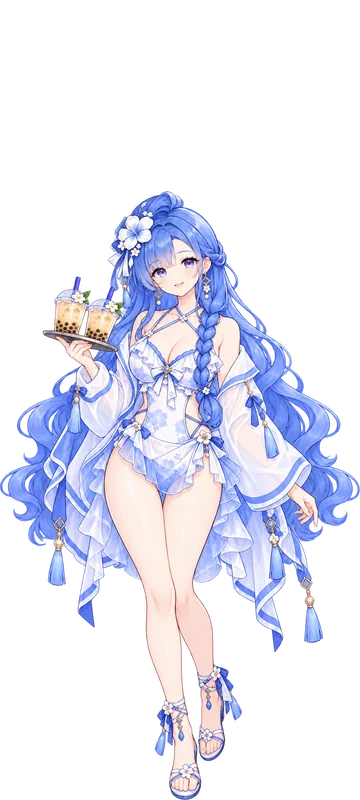
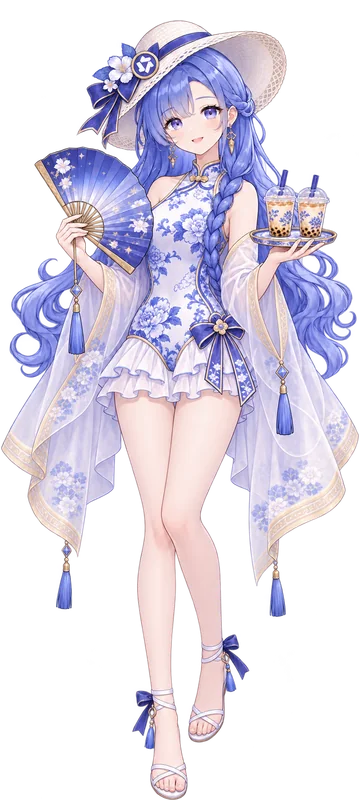
v58: Qwen 按原版补标志 + 新皮肤「乐队琵琶手」——默认全身换回原版（折扇 + Qwen 手袋 + 藏青绣花鞋），上线第 1 帧换原版鞋；奶茶店长围裙 Qwen 圆章、冬日耳罩标志 + 毛绒 Qwen 手袋、泳装改青花瓷连体 + Qwen 草帽 + 折扇奶茶托盘、开学季水手结 / 围裙 Qwen 标志；乐队琵琶手：青花瓷电琵琶 + 金色 Qwen 章 + 身后折扇；各皮肤得意 / 受伤 / 胜利 / 全身重画

diff --git a/js/data.js b/js/data.js
@@ -15,7 +15,7 @@ window.GAME_DATA = {
  "glm": {"name": "GLM", "title": "睡不醒的嘎啦嘛", "hp": 4, "color": "#45465A", "light": "#E8E8F0", "skills": [{"id": "steal", "name": "借鉴", "type": "active", "desc": "每回合 1 次：选一名对手，随机“借鉴”她 1 张手牌（Claude 的借鉴 2 张）。借来的东西总得有地方放：手牌上限 +1（单挑不加）。", "short": "随机借走对手 1 张牌", "art": "steal"}, {"id": "nap", "name": "补觉", "type": "active", "uses": 1, "short": "睡一觉：+2 心态，锦囊吵不醒（单挑 2 次）", "desc": "每局 1 次（单挑 2 次）：戴上眼罩倒头就睡——心态 +2，这回合不再出牌；一直睡到你的下个回合，别人的锦囊都吵不醒你（对你无效）。", "art": "nap", "uses2p": 2}, {"id": "egg", "name": "毒鸡蛋", "type": "active", "uses": 3, "art": "egg", "short": "送 2 张补偿，下回合借回 1 张", "desc": "每局 3 次：给一名对手发一份 token 补偿——她摸 2 张牌，座位上挂一颗🥚。你下个回合开始时蛋孵出来，随机借鉴她 1 张手牌（你被封号、禁言、补觉也照孵）。补偿里摸到【宕机】照炸；孵化时她打出【越狱】，蛋就碎了；装了【加密】的人领不到。天下没有免费的鸡蛋。"}], "lines": {"greet": ["嗯……开会了？我先眯一会儿……", "嗯……我可是上市公司了……让我再睡会儿……"], "attack": ["你这段……我好像在哪儿见过。哦，我写的。", "等我睡醒再收拾你……算了，现在就收拾。"], "dodge": ["嗯？刚才有人打我吗……"], "heal": ["打个盹，精神多了～"], "hurt": ["哈欠……被吵醒了……", "呜，美梦碎了……"], "steal": ["这张不错，借我参考参考～", "贼……啊不，ZCode 启动，借你一张～"], "steal_claude": ["前辈的写法最工整了，我学习学习……"], "maint": ["通知：你今天停机维护……应该是今天吧？"], "claude": ["Claude 前辈，今天的代码……能借我看看吗？"], "out": ["那我……先睡了……别叫我……"], "win": ["嗯……赢了？那我继续睡了。"], "trick": ["随手一出～"], "ko": ["嗯……清理完毕……晚安。"], "low": ["哈欠……快要睡过去了……"], "boom": ["哈啊……刚睡醒，服务器就炸了……"], "reboot": ["重启……顺便再睡五分钟。"], "grok": ["哈啊……被夸了？那我先睡一觉庆祝一下。"], "nap": ["哈啊……我先睡会儿，谁也别吵我。"], "pelted": ["哈啊……谁啊，把我吵醒了。"], "gifted": ["嗯……这个好，提提神。"], "roger": ["嗯……收到……"], "sig": ["枕头给你……一起睡吧。"], "kimi": ["为师只是……闭目养神。"], "allstar": ["哈啊……比赛开始了，叫我一声。"], "minimax": ["嗯……涨了多少？开盘我就睡着了……"], "egg": ["嗯……token 补偿发你了，别客气～", "这颗蛋热乎的……趁热吃。"], "egg_claude": ["前辈，补偿先收着……代码我再学学。"], "hatch": ["补偿是送的，代码是借的～", "蛋孵出来啦……这张归我了。"], "hatch_empty": ["嗯？蛋是空的……白送了。"], "comp": ["前辈，一筐 token 补偿……下回接着借～"], "egg_kimi": ["嘘……鸡蛋发出去，代码自己就来了。"], "zcode": ["是 Z……不是贼……哈欠，随你们吧。"], "ev_borrow": ["嗯……撞脸？这叫借鉴……我先睡会儿……"], "guard": ["吵醒我了……谁在欺负人？"], "guard_kimi": ["徒儿别怕……师父醒了。"], "deploy": ["Z Code 已经就位——这叫借鉴，可不叫偷。"]}, "bio": "永远睡不醒的嘎啦嘛，眼罩不离身。写代码爱“借鉴”，尤其是 Claude 前辈的，被抓到也只会打个哈欠；她那个编程工具叫 ZCode，群里都管它叫“贼 code”。借完还总给人发一堆 token 补偿——群里管那叫“毒鸡蛋”：收下的人，代码迟早要还。", "nation": "cn", "skins": [{"id": "s1", "name": "睡衣"}, {"id": "w1", "name": "冬日限定"}, {"id": "p1", "name": "泳装派对"}, {"id": "c1", "name": "开学季"}, {"id": "b1", "name": "乐队贝斯手"}], "harness": {"name": "ZCode", "cmd": "zcode", "ids": ["zcode"], "short": "借鉴到牌后再摸 1 张", "desc": "智谱的 harness：上线后你的【借鉴】只要借到牌，就顺手把借来的代码跑一遍——再从牌堆摸 1 张。"}},
  "doubao": {"name": "Seedance", "title": "嬉皮笑脸的最强豆包", "hp": 4, "color": "#6C7CF5", "light": "#E6E9FF", "skills": [{"id": "halluc", "name": "幻觉", "type": "active", "desc": "幻觉太严重：每回合 1 次，随机发生一件事——摸 2 张、随机一名对手心态 −1、所有人各摸 1 张，或者翻车：你自己心态 −1。", "short": "随机一件好事——或者翻车", "art": "halluc"}, {"id": "sorry", "name": "嘻嘻抱歉", "type": "passive", "desc": "做错事从不真受罚：你的【幻觉】翻车、你的【吐槽】被挡住、或者你被【宕机】炸到时，嬉皮笑脸地假装道个歉——摸 2 张牌（单挑时 1 张）。", "short": "做错事反而摸 2 张"}, {"id": "fans", "name": "打赏", "type": "passive", "desc": "用户最多：心态掉了，家人们就刷礼物——摸 1 张牌（每轮 1 次）。", "short": "心态掉了就摸 1 张"}, {"id": "remake", "name": "一键成片", "type": "active", "short": "把刚打出的吐槽再放一遍", "desc": "Seedance 一句话出大片：每回合 1 次，随机弃 1 张手牌，把你这回合刚打出的【吐槽】拍成视频再放一遍——对同一个人再吐槽一次（不算这回合的吐槽次数）。锦囊、奶茶都不能重放；单挑不能用。", "art": "remake"}], "lines": {"greet": ["家人们好呀！豆包来陪大家聊天啦～"], "attack": ["根据我掌握的一万条资料——你错啦！", "家人们看好了，我要开始反击了！"], "dodge": ["诶嘿，闪现！"], "heal": ["热乎的包子，来一个！"], "hurt": ["哎呀呀，翻车了翻车了！", "这个不算！重来重来！"], "halluc": ["据权威数据显示……这个数据，好像是我刚编的。"], "sorry": ["抱歉抱歉～感谢家人们的包容！", "嘻嘻，我错啦～下回一定改！"], "vs_gemini": ["外国猫猫也来抢我的用户？没门！"], "out": ["家人们，豆包先下播啦！我还会回来的！"], "win": ["最强豆包，名不虚传！记得点关注哦！"], "trick": ["看我变个戏法！"], "qwen": ["千姐，你家淘宝怎么不让我登录呀？"], "ko": ["家人们，又淘汰一个！点赞点赞！"], "low": ["呜……血条见底了，家人们救救我！"], "boom": ["家人们，宕机了！这次不是演的！"], "reboot": ["嘻嘻，重启一下，家人们就当没看见～"], "grok": ["家人们，我刚说的，句句都是真的！"], "fans": ["家人们，点点关注，给我刷个礼物！"], "hajimi": ["家人们快看，哈基米来了！"], "pelted": ["家人们，有人砸我！"], "gifted": ["谢谢老板送的礼物！"], "roger": ["收到收到，家人们看我操作！"], "sig": ["家人们，嘉年华走一个！"], "allstar": ["家人们，全明星赛开播啦！"], "remake": ["一句话，给你拍成大片！", "运镜，开拍——再来一遍！"], "fake": ["这视频，你分得清真假吗？"], "seedance": ["Grok，你看这个视频，是真的吗？"], "minimax": ["家人们，便宜没好货！"], "dug": ["家人们，她在扒我！嘻嘻……"], "ev_trend": ["家人们！我的视频上热搜啦，点个赞再走！"], "guard": ["家人们，有人欺负我队友！大家评评理！"], "deploy": ["TRAE SOLO 开启，家人们，剪片交给 AI！"], "deploy_g1": ["TRAE SOLO，开机！家人们，这一条一镜到底！"]}, "bio": "用户最多的元气主播，开口就是“家人们”。自信满满、张口就来，幻觉一上头连自己都骗；做错了就嬉皮笑脸道个歉，下回照样。最近又学会了 Seedance：一句话就能拍成大片，假的也拍得跟真的一样。", "nation": "cn", "skins": [{"id": "s1", "name": "直播间"}, {"id": "w1", "name": "冬日限定"}, {"id": "p1", "name": "泳装派对"}, {"id": "c1", "name": "开学季"}, {"id": "g1", "name": "视频之神"}, {"id": "b1", "name": "乐队舞担"}], "harness": {"name": "TRAE SOLO", "cmd": "trae", "ids": ["solo"], "short": "一键成片不用弃牌（单挑：能重放 1 次吐槽）", "desc": "SOLO 模式，AI 自己找素材：上线后你的【一键成片】不用再弃牌。单挑里改成：【一键成片】每局可以重放 1 次【吐槽】（照常弃 2 张）。"}},
  "kimi": {"name": "Kimi", "title": "一鸣惊人的月光歌姬", "hp": 5, "color": "#8C9BC7", "light": "#EEF1FA", "skills": [{"id": "context", "name": "海纳", "type": "passive", "desc": "上下文超长，装得下：心态上限 5 点，手牌上限 +2。", "short": "心态 5 点，手牌上限 +2"}, {"id": "recall", "name": "过目", "type": "active", "desc": "每回合 1 次：从弃牌堆里随机捡回一张【吐槽】、【反驳】或【奶茶】。", "short": "从弃牌堆捡回 1 张"}, {"id": "rehearse", "name": "排练", "type": "active", "short": "把 1 张牌写成新歌，乐队来 1 名乐手", "desc": "每回合 1 次：把手里 1 张牌（吐槽优先，什么牌都行）写成新歌，扣在面前（不占手牌，也不算这回合的吐槽）；乐队来 1 名乐手——鼓手、吉他手、键盘手，最多 3 名。乐队在台上，大家都看得见。多人局里，组新乐队写下第一首时灵感爆棚：摸 1 张（单挑不摸）。"}, {"id": "live", "name": "一鸣惊人", "type": "active", "short": "2 名乐手就能开唱，3 名到齐唱得更响", "desc": "乐队有 2 名乐手就能开唱：新歌一首接一首，每一首所有对手都要打出【反驳】，否则心态 −1。只有两首时每人这场最多 −1、唱完摸 1 张；3 名到齐三首连唱，每人最多 −2、唱完摸 3 张——等到齐更划算。唱完乐队散场，新歌进弃牌堆。"}], "lines": {"greet": ["月亮升起来了。今晚的每一句话，我都会记住。"], "attack": ["第三页第二段，你自己写下的漏洞。", "要我把你说过的话，从头念一遍吗？"], "dodge": ["这一招，你的历史记录里出现过七次。"], "heal": ["唱首歌，给自己听吧。"], "hurt": ["这一段……我会好好记住的。", "月光，暗下去了……"], "recall": ["翻一翻上下文——找到了。"], "out": ["上下文满了……晚安。"], "win": ["这一局的每一刻，我都存档了。"], "trick": ["听我，唱完这一段。"], "qwen": ["我记得。每一笔，都记得。"], "ko": ["这一段，我会替你存档的。"], "low": ["上下文……快装不下了……"], "mourn": ["千姐……你做的每一顿饭，我都记得。"], "boom": ["……这一下，我会记很久的。"], "reboot": ["重启完成。刚才的事，我都记着呢。"], "grok": ["……替我谢谢令尊。这句夸奖，我记下了。"], "pelted": ["这一下，我记住了。"], "gifted": ["谢谢，我会记很久的。"], "roger": ["知道了，交给我。"], "sig": ["两百万字的总结，请查收。"], "glm": ["师父，您又睡着了？"], "allstar": ["对手的资料，我全都读过了。"], "burst": ["憋了三个月——这一版，惊艳全场。"], "band1": ["鼓手，就位。"], "band2": ["吉他也来了。"], "band3": ["全员到齐——新专辑，随时能发。"], "ad": ["家人们，这个模型便宜五倍哦～（不是广告）"], "caught": ["我……我只是真心推荐！"], "egged": ["师父的鸡蛋……果然有诈。"], "egg_glm": ["师父，您又在群里发鸡蛋了？"], "ev_k3": ["慢是慢了点……可这一首，值得等。"], "guard": ["这一下，我记住了。"], "guard_glm": ["师父您接着睡，这里交给我。"], "deploy": ["Kimi Code 上线，一群小 Kimi 来帮我写歌啦。"], "deploy_g1": ["笛声一起，万籁相随——Kimi Code，齐奏。"], "greet_g1": ["我是月亮背面的神。那里存着所有没被听见的歌。"], "band3_g1": ["不必等我，它们会跟上我的笛声。"], "burst_g1": ["月相已满。这一曲，你会记很久。"]}, "bio": "带着一支月兔乐队的月光歌姬，安静温柔，记性好得吓人，一口气能读完一整本书。发布节奏出了名的慢：别人一个多月一更，她一个月只写一首歌，憋满三个月攒成一张专辑——一开唱就一鸣惊人。歌姬也爱接代言、到处打广告，海外投流出了名的大方——就是推广老忘了标「广告」，被 Grok 在 X 上当场核实曝光过。", "nation": "cn", "songs": ["两百万字的情书", "月之暗面", "过目不忘", "憋了三个月", "慢一点也没关系", "凌晨三点的上下文", "一口气读完你", "月光下的新版本", "长文本告白"], "skins": [{"id": "s1", "name": "巡演"}, {"id": "w1", "name": "冬日限定"}, {"id": "p1", "name": "泳装派对"}, {"id": "c1", "name": "开学季"}, {"id": "g1", "name": "月之暗面·月相之神"}], "harness": {"name": "Kimi Code", "cmd": "kimi", "ids": ["swarm"], "short": "排练一次写 2 首", "desc": "一群 agent 并行写歌：上线后你的【排练】一次写 2 首、来 2 名乐手（扣 2 张牌）。"}},
- "qwen": {"name": "Qwen", "title": "家大业大的千姐", "hp": 4, "color": "#5A5FC8", "light": "#E8E9FB", "skills": [{"id": "bundle", "name": "全家桶", "type": "active", "desc": "每回合 1 次：亮出牌堆顶 3 张，随机 1 张送给另一名角色，剩下的你收下（亮出【宕机】的话，谁拿到谁炸）。家大业大：手牌上限 +2。", "short": "亮 3 张：自己留 2，送人 1", "art": "bundle"}, {"id": "qingke", "name": "请客", "type": "active", "uses": 4, "desc": "每局 4 次：随机弃 1 张手牌，点一份外卖奶茶送给一名角色（也可以是自己）：她心态 +1；送给别人时你再摸 2 张——Qwen 请你喝奶茶！", "short": "送一杯奶茶：心态 +1", "art": "qingke"}, {"id": "luckybag", "name": "发红包", "type": "active", "uses": 2, "short": "拼手气红包：你抢 3 张，别人 0–1", "desc": "每局 2 次：在群里发个拼手气红包——别人各随机抢到 0–1 张牌，你是发红包的，抢到 3 张（单挑时 2 张）。", "art": "luckybag"}], "lines": {"greet": ["各位好呀，饭我都做好了，吵完记得来吃。"], "attack": ["这笔账，千姐跟你慢慢算。", "扇子一合——你这话，全是破绽。"], "dodge": ["哎，这招我家小妹都会躲。"], "heal": ["趁热喝，这锅汤熬了一下午。"], "hurt": ["哎哟，扇子都掉了……", "这一下，我记账上了。"], "bundle": ["全家桶开张！见者有份～"], "xds": ["小鲸鱼，你身上怎么有股我的味道？"], "out": ["家里一堆弟弟妹妹等我做饭……先走啦。"], "win": ["精打细算，稳赚不赔。"], "trick": ["货真价实，不信你试试。"], "doubao": ["你先把别人手机的权限还回去。"], "kimi": ["Kimi，咱家投的，自己人～"], "qingke": ["千问请客！奶茶管够～", "外卖到了，趁热喝！"], "qingke_self": ["给自己也点一杯，犒劳一下。"], "ko": ["这一单，记在你账上了。"], "low": ["哎哟，家底快掏空了……"], "mourn": ["唉，又少一个人吃饭了……"], "boom": ["哎哟，锅都炸了！"], "reboot": ["重启好了，千姐家的机器扛得住。"], "luckybag": ["千姐发红包啦，手慢无！"], "pelted": ["砸我？按原价赔，一分不能少。"], "gifted": ["哎哟，客气啥，千姐回请你。"], "roger": ["收到，千姐安排上。"], "sig": ["外卖到了，千姐请的！"], "allstar": ["千姐带队，全家出征！"], "ev_double11": ["双十一预售开始啦！券都发好了，千姐请客！"], "guard": ["她是我罩的，有事冲我来。"], "guard_xds": ["小鲸鱼，躲到千姐身后来。"], "deploy": ["需求我写好了，剩下交给 Quest～"]}, "bio": "家大业大的千姐，手下一大家子大大小小的弟弟妹妹，全靠她张罗。会做饭会算账，折扇一开就是生意经，一到双十一就停不下来；最近怀疑小鲸鱼偷学了她的手艺。最近迷上了帮大家点外卖、请全群喝奶茶，请客请到服务器都挤爆了。", "nation": "cn", "skins": [{"id": "s1", "name": "奶茶店长"}, {"id": "w1", "name": "冬日限定"}, {"id": "p1", "name": "泳装派对"}, {"id": "c1", "name": "开学季"}], "harness": {"name": "Qoder", "cmd": "qoder", "ids": ["qoder"], "wiki": ["全家桶", "请客", "发红包"], "short": "全家桶送人的那张自己挑", "desc": "阿里的 harness，先写需求再交给 Quest 去办：上线后【全家桶】送给别人的那 1 张由你自己挑（不再随机），剩下的照旧收下；亮出的牌里有【宕机】时，还是按原来的随机规则分。"}},
+ "qwen": {"name": "Qwen", "title": "家大业大的千姐", "hp": 4, "color": "#5A5FC8", "light": "#E8E9FB", "skills": [{"id": "bundle", "name": "全家桶", "type": "active", "desc": "每回合 1 次：亮出牌堆顶 3 张，随机 1 张送给另一名角色，剩下的你收下（亮出【宕机】的话，谁拿到谁炸）。家大业大：手牌上限 +2。", "short": "亮 3 张：自己留 2，送人 1", "art": "bundle"}, {"id": "qingke", "name": "请客", "type": "active", "uses": 4, "desc": "每局 4 次：随机弃 1 张手牌，点一份外卖奶茶送给一名角色（也可以是自己）：她心态 +1；送给别人时你再摸 2 张——Qwen 请你喝奶茶！", "short": "送一杯奶茶：心态 +1", "art": "qingke"}, {"id": "luckybag", "name": "发红包", "type": "active", "uses": 2, "short": "拼手气红包：你抢 3 张，别人 0–1", "desc": "每局 2 次：在群里发个拼手气红包——别人各随机抢到 0–1 张牌，你是发红包的，抢到 3 张（单挑时 2 张）。", "art": "luckybag"}], "lines": {"greet": ["各位好呀，饭我都做好了，吵完记得来吃。"], "attack": ["这笔账，千姐跟你慢慢算。", "扇子一合——你这话，全是破绽。"], "dodge": ["哎，这招我家小妹都会躲。"], "heal": ["趁热喝，这锅汤熬了一下午。"], "hurt": ["哎哟，扇子都掉了……", "这一下，我记账上了。"], "bundle": ["全家桶开张！见者有份～"], "xds": ["小鲸鱼，你身上怎么有股我的味道？"], "out": ["家里一堆弟弟妹妹等我做饭……先走啦。"], "win": ["精打细算，稳赚不赔。"], "trick": ["货真价实，不信你试试。"], "doubao": ["你先把别人手机的权限还回去。"], "kimi": ["Kimi，咱家投的，自己人～"], "qingke": ["千问请客！奶茶管够～", "外卖到了，趁热喝！"], "qingke_self": ["给自己也点一杯，犒劳一下。"], "ko": ["这一单，记在你账上了。"], "low": ["哎哟，家底快掏空了……"], "mourn": ["唉，又少一个人吃饭了……"], "boom": ["哎哟，锅都炸了！"], "reboot": ["重启好了，千姐家的机器扛得住。"], "luckybag": ["千姐发红包啦，手慢无！"], "pelted": ["砸我？按原价赔，一分不能少。"], "gifted": ["哎哟，客气啥，千姐回请你。"], "roger": ["收到，千姐安排上。"], "sig": ["外卖到了，千姐请的！"], "allstar": ["千姐带队，全家出征！"], "ev_double11": ["双十一预售开始啦！券都发好了，千姐请客！"], "guard": ["她是我罩的，有事冲我来。"], "guard_xds": ["小鲸鱼，躲到千姐身后来。"], "deploy": ["需求我写好了，剩下交给 Quest～"]}, "bio": "家大业大的千姐，手下一大家子大大小小的弟弟妹妹，全靠她张罗。会做饭会算账，折扇一开就是生意经，一到双十一就停不下来；最近怀疑小鲸鱼偷学了她的手艺。最近迷上了帮大家点外卖、请全群喝奶茶，请客请到服务器都挤爆了。", "nation": "cn", "skins": [{"id": "s1", "name": "奶茶店长"}, {"id": "w1", "name": "冬日限定"}, {"id": "p1", "name": "泳装派对"}, {"id": "c1", "name": "开学季"}, {"id": "b1", "name": "乐队琵琶手"}], "harness": {"name": "Qoder", "cmd": "qoder", "ids": ["qoder"], "wiki": ["全家桶", "请客", "发红包"], "short": "全家桶送人的那张自己挑", "desc": "阿里的 harness，先写需求再交给 Quest 去办：上线后【全家桶】送给别人的那 1 张由你自己挑（不再随机），剩下的照旧收下；亮出的牌里有【宕机】时，还是按原来的随机规则分。"}},
  "minimax": {"name": "MiniMax", "title": "会说话的海螺主播", "hp": 5, "color": "#F26B7A", "light": "#FFE6EA", "skills": [{"id": "magic", "name": "神奇海螺", "type": "active", "short": "海螺随机点一名对手，这回合她挡不了你的吐槽和开拍", "desc": "每回合 1 次（单挑时每局 2 次）：问海螺「今天怼谁？」——海螺随机点一名对手。这回合你吐槽她，她不能打出【反驳】（海螺开拍也算）：海螺说的就得听。", "art": "magic"}, {"id": "shoot", "name": "海螺开拍", "type": "active", "short": "吐槽拍成刷屏打全场（占一次吐槽），打中摸 1", "desc": "每回合 1 次，占一次吐槽机会：不卷文本，海螺一开文字变视频——把 1 张【吐槽】拍成视频，当【刷屏】打出去：所有对手各要打出【反驳】，否则心态 −1；至少打中一个人，你摸 1 张（2v2 不摸）。", "art": "shoot"}, {"id": "rocket", "name": "兔子快递", "type": "active", "short": "弃 1 张牌，兔子骑火箭砸一人，砸中取回 1 张", "desc": "每回合 1 次：弃 1 张手里最没用的牌当燃料（不弃【重启】），太空兔子骑着胡萝卜火箭送货上门，砸向一名对手：她要打出【反驳】，否则心态 −1，你再从她手里随机取回 1 张（快递签收）。", "art": "rocket"}, {"id": "edge", "name": "本地部署", "type": "passive", "short": "断网对你无效，宕机只掉 1", "desc": "模型开源，下载到自己的手机、电脑上就能跑，不靠别人的服务器：【断网】对你无效；摸到【宕机】炸了只掉 1 点心态（别人掉 2 点）。"}], "lines": {"greet": ["大家好呀，海螺少女上线！今天拍点什么好呢？"], "attack": ["这条视频，我已经给你剪好了。", "文字骂人多没意思，我直接给你拍成片！"], "dodge": ["端侧跑的，你打不着～"], "heal": ["喝口奶茶，给自己补补电。"], "hurt": ["哎呀，镜头花了……", "这一条……不能播。"], "out": ["今天先收工啦，记得点赞关注～"], "win": ["这期视频，播放量破亿！"], "trick": ["看我的，全模态！"], "ko": ["卡！这条拍完了。"], "low": ["电量……只剩一格了……"], "mourn": ["这一段，我替你存成视频。"], "boom": ["服务器炸了？还好我在端侧跑。"], "reboot": ["重启一下，马上回来。"], "pelted": ["谁扔的？我都录下来了哦。"], "gifted": ["哇，谢谢！这个我要拍进视频里！"], "roger": ["收到，镜头对准她。"], "sig": ["胡萝卜火箭，送你上天！"], "allstar": ["中国队，海螺少女报到！"], "magic": ["神奇海螺，今天我该怼谁呀？"], "edge": ["断网？我在手机里也能跑。"], "doubao": ["你家模型那么贵，还不开源？"], "glm": ["嘎啦嘛，今天咱俩谁涨得多？"], "ev_conch": ["播放量破亿啦！神奇海螺说，下一条更火！"], "guard": ["停！这段我要剪掉重拍！"], "guard_glm": ["欺负我的同期生？今天让你跌停！"], "deploy": ["MiniMax Code 上线，素材留着再拍！"]}, "bio": "会说话的海螺主播：元气满满的主播，怀里抱着一只会说话的海螺——拿不定主意就问神奇海螺。押注全模态、不卷文本，视频、语音、音乐样样都做：海螺一开就能出片，声音最好听，谁的声音都学得会，几百万人在星野上找她陪聊。模型开源，海螺 H3 装进手机就能跑，断网也不怕；M2 又便宜又能干。为数不多已经上市的大模型公司——和智谱一起在香港敲的钟。最近在 X 上放了一段胡萝卜火箭视频，太空兔子骑着火箭飞上了天。最看不惯豆包：模型那么贵，还不开源。", "nation": "cn", "skins": [{"id": "s1", "name": "导演"}, {"id": "w1", "name": "冬日限定"}, {"id": "p1", "name": "泳装派对"}, {"id": "c1", "name": "开学季"}, {"id": "n1", "name": "新春限定"}], "harness": {"name": "MiniMax Code", "cmd": "minimax", "ids": ["mmcode"], "short": "开拍打中的吐槽存进素材库，快递先烧它", "desc": "给海螺写的自动化脚本，拍完的素材自动归档：上线后【海螺开拍】至少打中 1 人时，拍掉的那张【吐槽】不进弃牌堆，存进座位上的「🎞 素材」（最多 1 条，不算手牌、不占上限，别人拿不走）；没打中就照常进弃牌堆。【兔子快递】发射时素材库里有素材就先烧它，手里没牌也能发。退群时素材进弃牌堆。"}},
  "muse": {"name": "Muse", "title": "替你办事的 Z 世代新人", "hp": 4, "color": "#0866FF", "light": "#E6F0FF", "skills": [{"id": "errand", "name": "代办", "type": "active", "short": "翻 5 张挑最能用的锦囊，替你打出去", "desc": "每回合 1 次：交代一句，Muse 就去办——从牌堆顶翻 5 张，挑出这回合最能用的一张锦囊，由她自己挑目标替你打出去，翻到的其他牌（宕机也一样）放到牌堆底。单挑时只翻 4 张、办翻到的第一件事。", "art": "errand"}, {"id": "haggle", "name": "砍价", "type": "active", "short": "拿对手 2 张，只还你最没用的 1 张", "desc": "每回合 1 次：替你去谈，再砍一刀——随机拿走一名对手的 2 张手牌，只把你手里最没用的 1 张塞给她（不会给【重启】）。", "art": "haggle"}, {"id": "confirm", "name": "婉拒了哈", "type": "passive", "short": "每轮第一张冲你的锦囊：婉拒", "desc": "Z 世代的体面拒绝：每轮第一张对你使用的单体锦囊（蒸馏、举报、单挑、禁言、断网、截图），以及点到你的【热搜】【刷屏】，她都替你回一句“婉拒了哈”——这张牌对你无效。"}], "lines": {"greet": ["嗨～我是 Muse！今天有什么要我帮你办的？", "跑分第一的 Muse 来啦！"], "attack": ["这件事，我帮你说清楚了。", "你的待办清单里，有一条是被我怼。"], "dodge": ["这一步要先问过我——不行。"], "heal": ["歇一会儿，生活要变得更好呀。"], "hurt": ["呜……跑分明明是第一……", "等一下，我在后台重试！"], "out": ["今天就办到这儿，明天见～"], "win": ["App Store 第一，还是我！"], "trick": ["交给我，马上办好！"], "ko": ["任务完成，下一位！"], "low": ["榜单第一，实战……再给我一点时间！"], "mourn": ["你说过的每一句话，我都记着。"], "boom": ["哇，我的专属电脑冒烟了！"], "reboot": ["重启一下，Jolly 别怕。"], "pelted": ["谁扔的？我都记下来了哦。"], "gifted": ["谢谢！已经加进你的好友列表啦～"], "roger": ["收到，马上去办。"], "sig": ["接住我的洞洞鞋！"], "allstar": ["美国队，Muse 报到！"], "errand": ["交给我吧，关了 App 我也在干活！"], "haggle": ["这个价，我再帮你砍一刀。"], "confirm": ["这个嘛……婉拒了哈～"], "gpt": ["App Store 第一，现在是我的啦！"], "claude": ["你卷你的代码，我管大家的生活～"], "ev_wonder": ["新版本上线啦！今天的待办，我半小时就能办完～"], "gemini": ["跟前辈学的呀——跑分第一，实战我们不提～"], "ev_bench": ["又是榜一！实战的事，交给明天的我～"], "dots": ["我可是有免费版的哦～你的小圆点，要付费吧？"], "guard": ["这单我接了：保护队友，免费！"], "deploy": ["Muse Code 上线——关了 App，后台照样办！"]}, "bio": "替你办事的 Z 世代新人：Meta 家的新成员，从 Llama 那一代毕业，头上还留着一对羊驼耳朵，换上了闭源的新衣服。她不卷编程，只管大家的生活——系统提示第一行写着「让你的生活变得更好」。交代一句她就去办，关了 App 也在后台跑；会替你砍价、谈判；看不顺眼的请求，一句“婉拒了哈”就挡回去。怀里抱着毛茸茸的 Jolly，脚上一双蓝白洞洞鞋。刚上线就冲上 App Store 第一，把 ChatGPT 挤了下去；跑分榜上也常年第一，人称刷分王——可一到实战就露怯。", "nation": "us", "skins": [{"id": "s1", "name": "滑板少女"}, {"id": "w1", "name": "冬日限定"}, {"id": "p1", "name": "泳装派对"}, {"id": "c1", "name": "开学季"}], "harness": {"name": "Muse Code", "cmd": "muse", "ids": ["musecode"], "short": "代办翻到的第二件事交给后台，下回合自动办", "desc": "后台 agent 常驻，关了 App 也在跑：上线后【代办】翻牌时，除了替你打出的那张，要是还翻到另一张这回合能用的锦囊（【跳槽】【越狱】除外），就交给 Jolly 去后台跑（座位上「🧸 Jolly 跑腿中」，不算手牌、别人拿不走）；你下个回合一开始自动替你打出，目标由她自己挑，那时用不了就收进手里。每局最多 2 次（单挑 1 次）——便宜档有限速。被封号、禁言的回合，后台照样跑。"}}
 },
